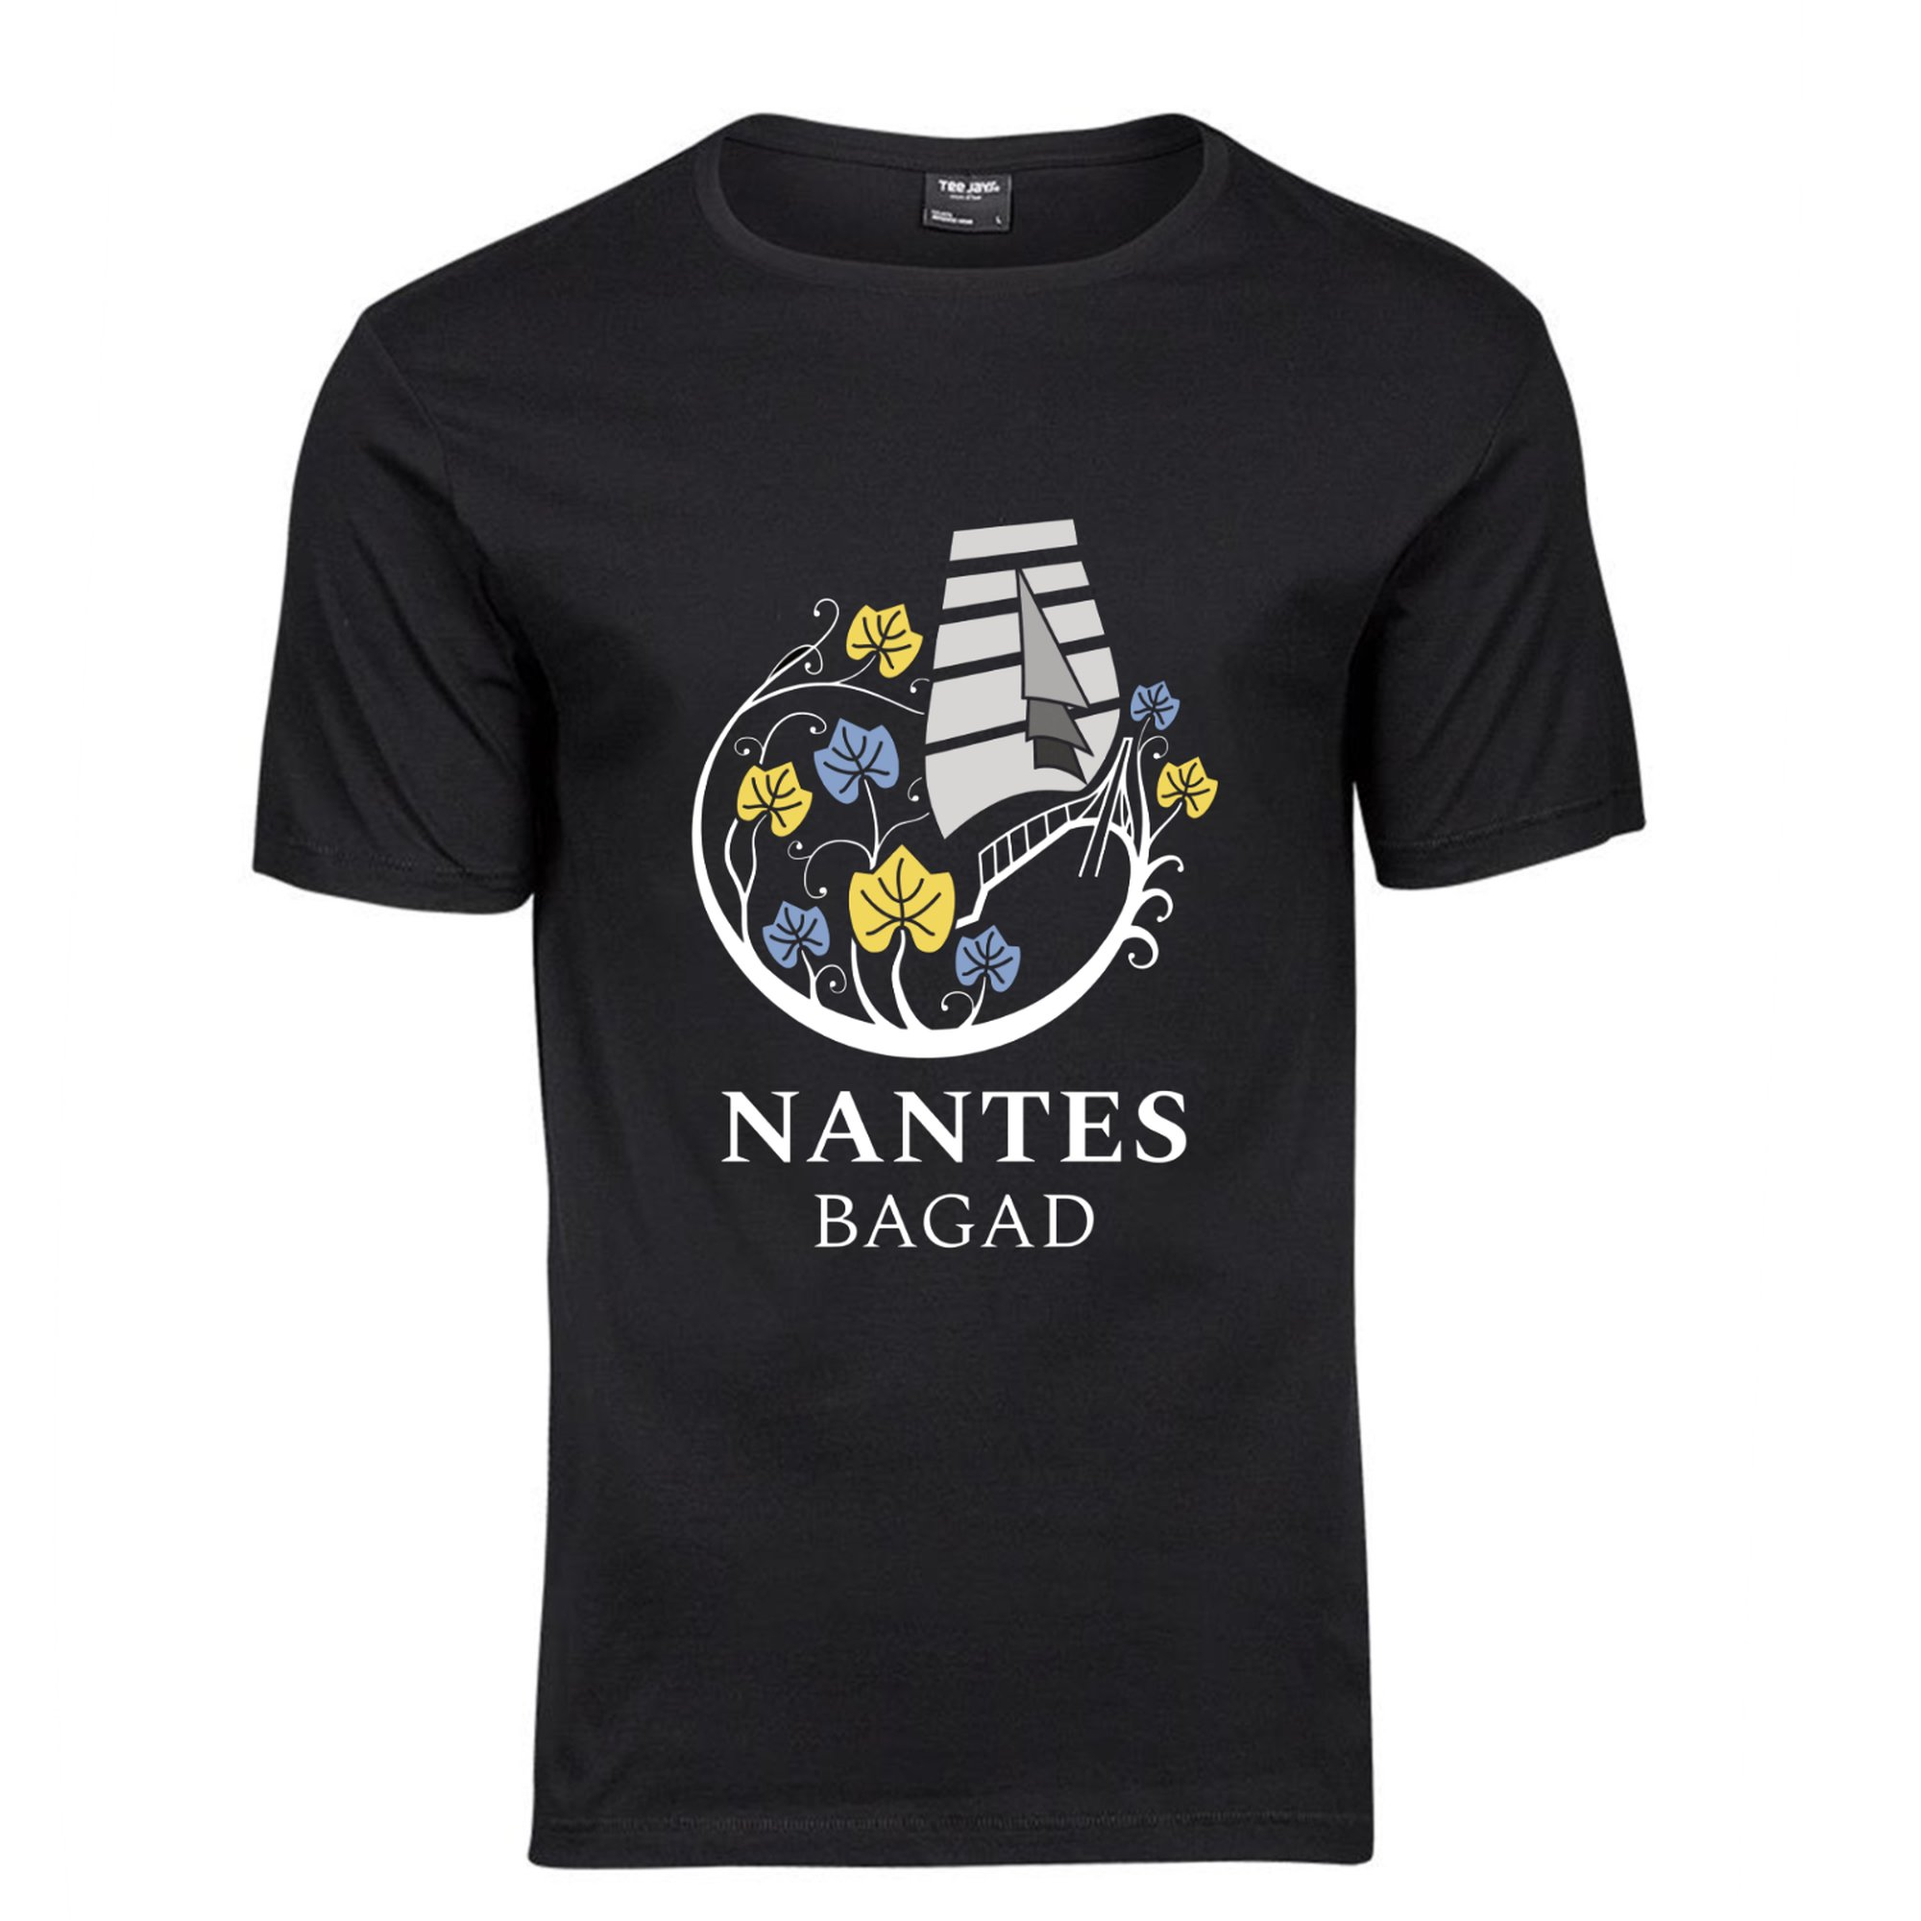
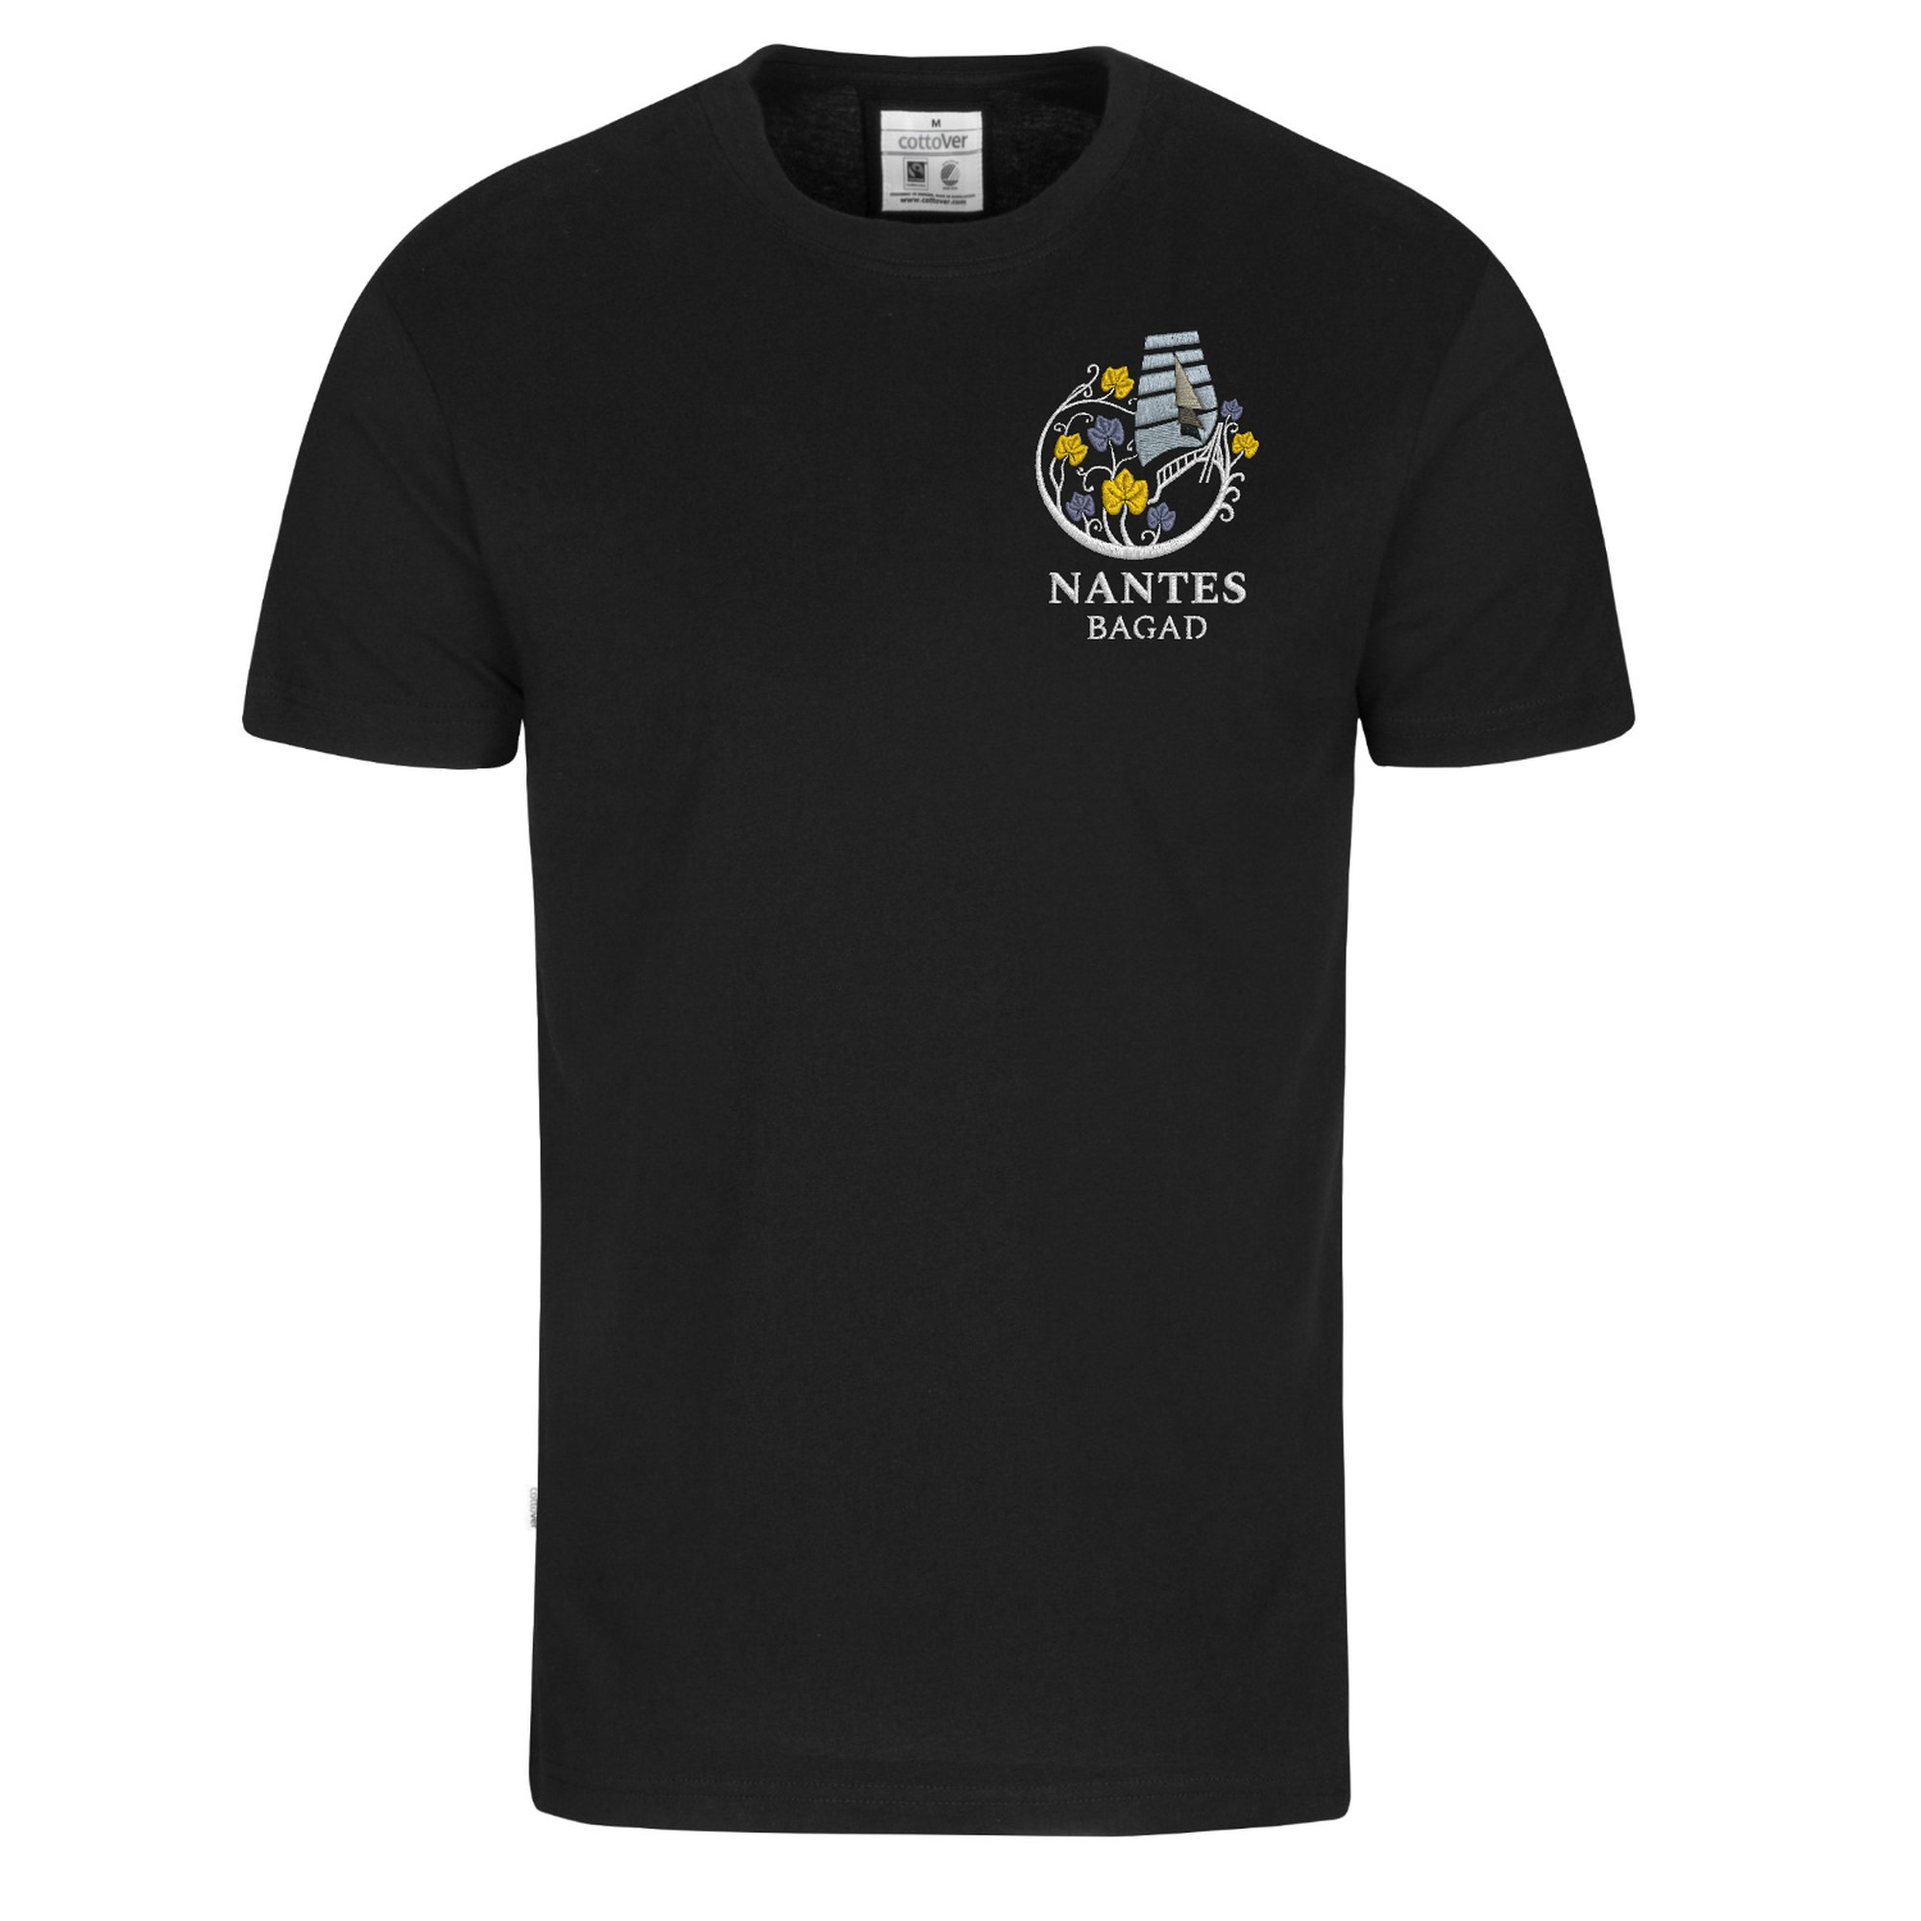
Nouveaux T-Shirts H/F

diff --git a/boutique/T-Shirt-Homme-Bagad-de-Nantes.php b/boutique/T-Shirt-Homme-Bagad-de-Nantes.php
@@ -13,30 +13,41 @@ require_once('../parts/navbar.html.php');
     <div class="col-md-8">
       <h1 class="mt-0">Boutique</h1>
       <hr/>
-      <h2>T-Shirt Homme Bagad de Nantes <span id="price" class="badge rounded-pill bg-light text-dark">64,00 €</span></h2>
+      <h2>T-Shirt Homme Bagad de Nantes <span id="price" class="badge rounded-pill bg-light text-dark">36,00 €</span></h2>
       <p><i>Prix unitaire maximum - varie en fonction du nombre d'unités commandées</i></p>
       <?php require_once('parts/order.html.php'); ?>
       <img class="rounded float-start img-fluid img-thumbnail rounded mx-auto d-block" 
         src="/boutique/assets/packshots/T-Shirt-Homme-Bagad-de-Nantes.jpeg" />
       <p>Le T-Shirt Homme officiel du Bagad de Nantes.</p>
       <ul>
-        <li>100 % coton peigné et filé, 160 g/m²</li>
+        <li>100 % coton écologique et certifié équitable, 160 g/m²</li>
         <li>Manches courtes</li>
-        <li>Col côtelé étroit avec élasthanne</li>
         <li>Bandes à l'encolure et aux épaules</li>
         <li>Coutures latérales</li>
-        <li>Surpiqûre aux manches et à l'ourlet</li>
-        <li>Coupe ajustée</li>
+        <li>Coupe moderne</li>
         <li>Modèle également <a href="/boutique/T-Shirt-Femme-Bagad-de-Nantes">disponible pour femme</a></li>
       </ul>
       <p><b>Couleur</b> : Noir</p>
-      <p><b>Marquage</b> : Transfert de couleurs (devant)</p>
+      <p><b>Marquage</b> : Broderie</p>
       <p><b>Manches</b> : Manches courtes</p>
       <p><b>Col</b> : Col rond</p>
-      <p><b>Tailles</b> : du S au 3XL - voir guide ci-dessous</p>
-      <h3>Doux et confortable</h3>
-      <p>Pratique et confortable, le t-shirt homme en coton Luxury de Tee Jays® 
-        est brodé aux couleurs du Bagad de Nantes.</p>
+      <p><b>Tailles</b> : du XS au 4XL - voir guide ci-dessous - Attention, le modèle taille petit.</p>
+      <h3>Doux et écolo, un choix éthique et durable</h3>
+      <p>Fabriqué entièrement en coton biologique, le T-shirt femme col en V GOTS de CottoVer®, brodé aux couleurs du Bagad de Nantes,
+        est bien plus qu'un simple T-shirt.
+        Il bénéficie de nombreuses certifications internationales pour son mode de fabrication éthique et responsable :</p>
+      <ul>
+        <li>Certification <a href="https://global-standard.org/" target="_blank">GOTS</a></li>
+        <li>Certification <a href="https://www.oeko-tex.com/" target="_blank">OEKO-TEX</a></li>
+        <li>Certification <a href="https://www.nordic-ecolabel.org/" target="_blank">Nordic Swan Ecolabel</a></li>
+        <li>Certification <a href="https://info.fairtrade.net/" target="_blank">FairTrade</a></li>
+      </ul>
+      <h3>Conseils d'entretien</h3>
+        <ul>
+          <li>Lavage en machine à 60° C</li>
+          <li>Température de repassage max : 200° C</li>
+          <li>Ne pas sécher en machine</li>
+        </ul>
       <h3>Guide des tailles</h3>
       <img class="rounded float-none img-fluid img-thumbnail mx-auto mb-3 d-block" 
         src='/boutique/assets/tailles/T-Shirt-Homme-Bagad-de-Nantes-tailles.png' />
@@ -53,12 +64,13 @@ require_once('../parts/navbar.html.php');
             </tr>
           </thead>
         <tbody>
-          <tr><th scope="row">S</th><td>173</td><td>94</td></tr>
-          <tr><th scope="row">M</th><td>178</td><td>100</td></tr>
-          <tr><th scope="row">L</th><td>183</td><td>106</td></tr>
-          <tr><th scope="row">XL</th><td>188</td><td>112</td></tr>
-          <tr><th scope="row">2XL</th><td>193</td><td>118</td></tr>
-          <tr><th scope="row">3XL</th><td>194</td><td>124</td></tr>
+          <tr><th scope="row">S</th><td>68</td><td>50</td></tr>
+          <tr><th scope="row">M</th><td>71</td><td>52</td></tr>
+          <tr><th scope="row">L</th><td>74</td><td>56</td></tr>
+          <tr><th scope="row">XL</th><td>77</td><td>60</td></tr>
+          <tr><th scope="row">2XL</th><td>81</td><td>66</td></tr>
+          <tr><th scope="row">3XL</th><td>84</td><td>72</td></tr>
+          <tr><th scope="row">4XL</th><td>88</td><td>78</td></tr>
         </tbody>
       </table>
     </div>

diff --git a/boutique/T-Shirt-Femme-Bagad-de-Nantes.php b/boutique/T-Shirt-Femme-Bagad-de-Nantes.php
@@ -15,30 +15,41 @@ require_once('../parts/navbar.html.php');
       <hr class="d-print-none"/>
       <img class="rounded float-end img-fluid img-thumbnail rounded mx-auto d-block w-25 d-none d-print-block" 
           src="/boutique/assets/qr-code-boutique.png" />
-      <h2>T-Shirt Femme Bagad de Nantes <span id="price" class="badge rounded-pill bg-light text-dark">64,00 €</span></h2>
+      <h2>T-Shirt Femme Bagad de Nantes <span id="price" class="badge rounded-pill bg-light text-dark">36,00 €</span></h2>
       <p><i>Prix unitaire maximum - varie en fonction du nombre d'unités commandées</i></p>
       <?php require_once('parts/order.html.php'); ?>
       <img class="rounded float-start img-fluid img-thumbnail rounded mx-auto d-block" 
         src="/boutique/assets/packshots/T-Shirt-Femme-Bagad-de-Nantes.jpeg" />
       <p>Le T-Shirt Femme officiel du Bagad de Nantes.</p>
       <ul>
-        <li>100 % coton peigné et filé, 160 g/m²</li>
+        <li>100 % coton écologique et certifié équitable, 160 g/m²</li>
         <li>Manches courtes</li>
-        <li>Col côtelé étroit avec élasthanne</li>
         <li>Bandes à l'encolure et aux épaules</li>
         <li>Coutures latérales</li>
-        <li>Surpiqûre aux manches et à l'ourlet</li>
-        <li>Coupe ajustée</li>
+        <li>Coupe moderne</li>
         <li>Modèle également <a href="/boutique/T-Shirt-Homme-Bagad-de-Nantes">disponible pour homme</a></li>
       </ul>
       <p><b>Couleur</b> : Noir</p>
-      <p><b>Marquage</b> : Transfert de couleurs (devant)</p>
+      <p><b>Marquage</b> : Broderie</p>
       <p><b>Manches</b> : Manches courtes</p>
-      <p><b>Col</b> : Col rond</p>
-      <p><b>Tailles</b> : du S au 2XL - voir guide ci-dessous</p>
-      <h3>Doux et confortable</h3>
-      <p>Pratique et confortable, le t-shirt femme en coton Luxury de Tee Jays® 
-        est brodé aux couleurs du Bagad de Nantes.</p>
+      <p><b>Col</b> : Col en V</p>
+      <p><b>Tailles</b> : du XS au 2XL - voir guide ci-dessous</p>
+      <h3>Doux et écolo, un choix éthique et durable</h3>
+      <p>Fabriqué entièrement en coton biologique, le T-shirt femme col en V GOTS de CottoVer®, brodé aux couleurs du Bagad de Nantes,
+        est bien plus qu'un simple T-shirt.
+        Il bénéficie de nombreuses certifications internationales pour son mode de fabrication éthique et responsable :</p>
+      <ul>
+        <li>Certification <a href="https://global-standard.org/" target="_blank">GOTS</a></li>
+        <li>Certification <a href="https://www.oeko-tex.com/" target="_blank">OEKO-TEX</a></li>
+        <li>Certification <a href="https://www.nordic-ecolabel.org/" target="_blank">Nordic Swan Ecolabel</a></li>
+        <li>Certification <a href="https://info.fairtrade.net/" target="_blank">FairTrade</a></li>
+      </ul>
+      <h3>Conseils d'entretien</h3>
+        <ul>
+          <li>Lavage en machine à 60° C</li>
+          <li>Température de repassage max : 200° C</li>
+          <li>Ne pas sécher en machine</li>
+        </ul>
       <h3>Guide des tailles</h3>
       <img class="rounded float-none img-fluid img-thumbnail mx-auto mb-3 d-block" 
         src='/boutique/assets/tailles/T-Shirt-Femme-Bagad-de-Nantes-tailles.png' />
@@ -55,11 +66,12 @@ require_once('../parts/navbar.html.php');
             </tr>
           </thead>
         <tbody>
-          <tr><th scope="row">S</th><td>165</td><td>86</td></tr>
-          <tr><th scope="row">M</th><td>171</td><td>92</td></tr>
-          <tr><th scope="row">L</th><td>175</td><td>98</td></tr>
-          <tr><th scope="row">XL</th><td>179</td><td>104</td></tr>
-          <tr><th scope="row">2XL</th><td>183</td><td>110</td></tr>
+          <tr><th scope="row">XS</th><td>60</td><td>41</td></tr>
+          <tr><th scope="row">S</th><td>62</td><td>44</td></tr>
+          <tr><th scope="row">M</th><td>64</td><td>47</td></tr>
+          <tr><th scope="row">L</th><td>66</td><td>50</td></tr>
+          <tr><th scope="row">XL</th><td>68</td><td>53</td></tr>
+          <tr><th scope="row">2XL</th><td>70</td><td>56</td></tr>
         </tbody>
       </table>
     </div>
